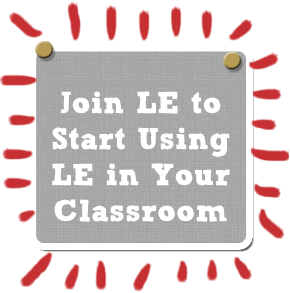
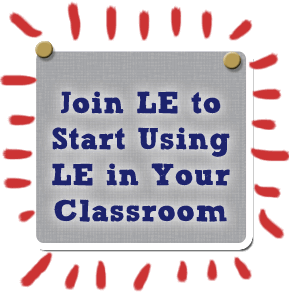
updating home page image to compensate for transparency.  Fixing typo.

diff --git a/app/assets/javascripts/tours/teacher/overview.js b/app/assets/javascripts/tours/teacher/overview.js
@@ -155,7 +155,7 @@ var teacher_overview = {
     }
   }, {
     target: document.querySelector('.reports'),
-    content: "The Purchase Report is how you can see what rewards your students have purchased from the store. Other reports allow you too check student balances or see who's logging in.  We hope you enjoy using LE, you can also restart this tour or find other answers using the Help page.",
+    content: "The Purchase Report is how you can see what rewards your students have purchased from the store. Other reports allow you to check student balances or see who's logging in.  We hope you enjoy using LE, you can also restart this tour or find other answers using the Help page.",
     placement: "bottom",
     showPrevButton: true,
     onPrev: function() {

diff --git a/app/assets/javascripts/tours/school_admin/overview.js b/app/assets/javascripts/tours/school_admin/overview.js
@@ -133,7 +133,7 @@ var school_admin_overview = {
     }
   }, {
     target: document.querySelector('.reports'),
-    content: "The Purchase Report is how you can see what rewards your students have purchased from the store. Other reports allow you too check student balances or see who's logging in.  We hope you enjoy using LE, you can also restart this tour or find other answers using the Help page.",
+    content: "The Purchase Report is how you can see what rewards your students have purchased from the store. Other reports allow you to check student balances or see who's logging in.  We hope you enjoy using LE, you can also restart this tour or find other answers using the Help page.",
     placement: "bottom"
   }]
 }
